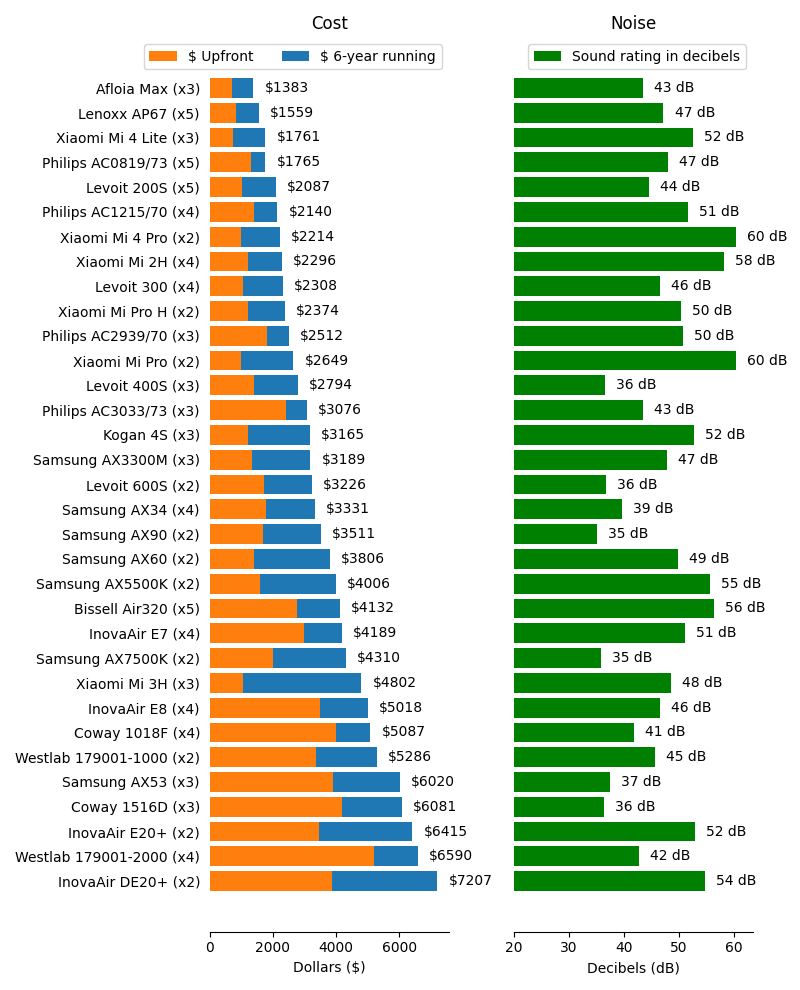
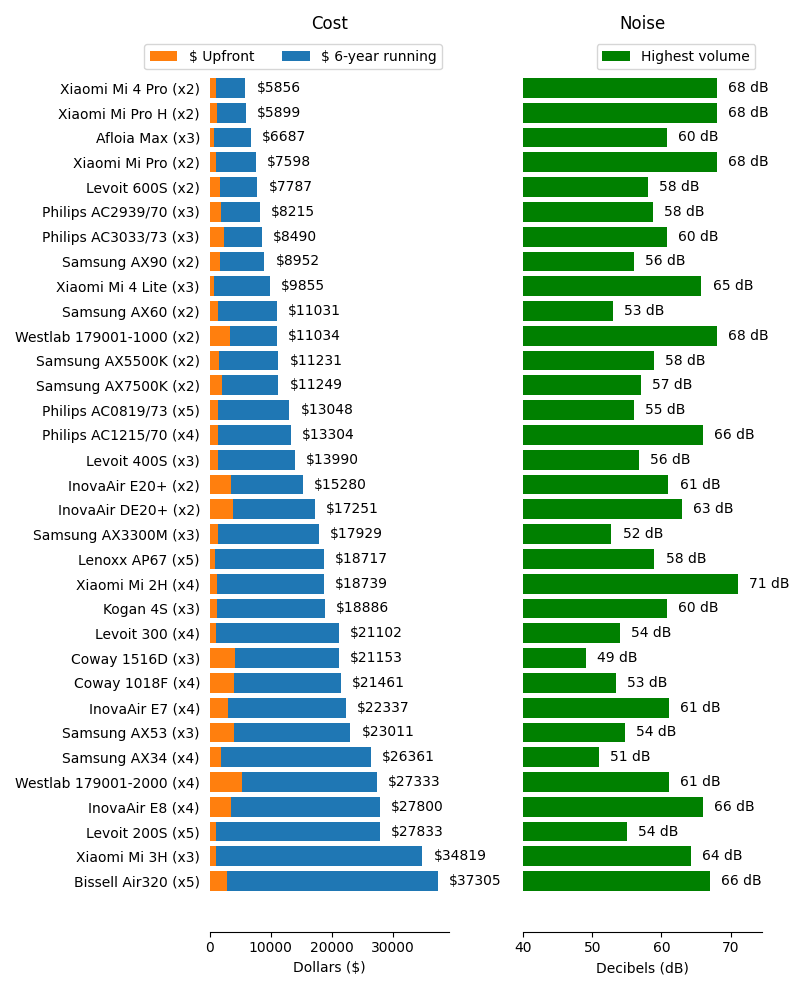
Quick push

diff --git a/aircleaning/produce.py b/aircleaning/produce.py
@@ -21,6 +21,7 @@ def cost_analysis(data, volume, quality, path=productsdir, name='default'):
     data = analyse.cost_analysis(data, volume, quality)
     data = data.sort_values('nominal')
     data = data.loc[data['nunits'] < 6]
+    data = data.drop('Dyson', level='Manufacturer')
     data['fullname'] = tuple(map(
         ''.join, zip(
             map(' '.join, data.index),
@@ -56,14 +57,14 @@ def cost_analysis(data, volume, quality, path=productsdir, name='default'):
     ax2.invert_yaxis()  # labels read top-to-bottom
     ax2.set_xlabel('Decibels (dB)')
     ax2.set_title('Noise')
-    ax2.set_xlim(20)
+    ax2.set_xlim(40)
     ax2.bar_label(bars, label_type='edge', padding=8, fmt='%d dB')
     ax2.spines['top'].set_visible(False)
     ax2.spines['right'].set_visible(False)
     ax2.spines['left'].set_visible(False)
     ax2.tick_params(axis='y', which='both', left=False)
     ax2.legend(
-        [bars,], ['Sound rating in decibels'],
+        [bars,], ['Highest volume'],
         ncol=2,
         )
 

diff --git a/aircleaning/analyse.py b/aircleaning/analyse.py
@@ -6,6 +6,7 @@
 import math
 
 import pandas as pd
+import numpy as np
 
 from . import load
 
@@ -27,10 +28,10 @@ def cost_analysis(data, /, volume='medium', quality='good'):
     data = data.drop('cadr', axis=1)
     performance = ach / quality
     nunits = (1 / performance).apply(math.ceil)
-    data['cost'] = data['cost'] * nunits
-    performance *= nunits
-    for col in ('power', 'noise', 'filterchanges'):
-        data[col] = data[col] / performance
+    data['cost'] *= nunits
+    for col in ('power', 'filterchanges'):
+        data[col] = data[col] * nunits / performance
+    data['noise'] = 10 * np.log10(10 ** (data['noise'] / 10) * nunits)
     filtercost = data['filtercost'] * data['filterchanges']
     data = data.drop(['filterchanges', 'filtercost'], axis=1)
     powercost = data['power'] / 1000 * 24 * 365 * load.NOMINALPOWERCOST
